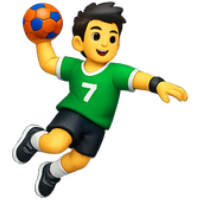
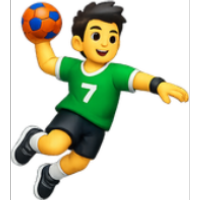
fix: restaurar fundo transparente nos icones dos esportes

diff --git a/sw.js b/sw.js
@@ -1,4 +1,4 @@
-const CACHE = "appsorteio-v8";
+const CACHE = "appsorteio-v9";
 const ASSETS = [
     "./",
     "./index.html",